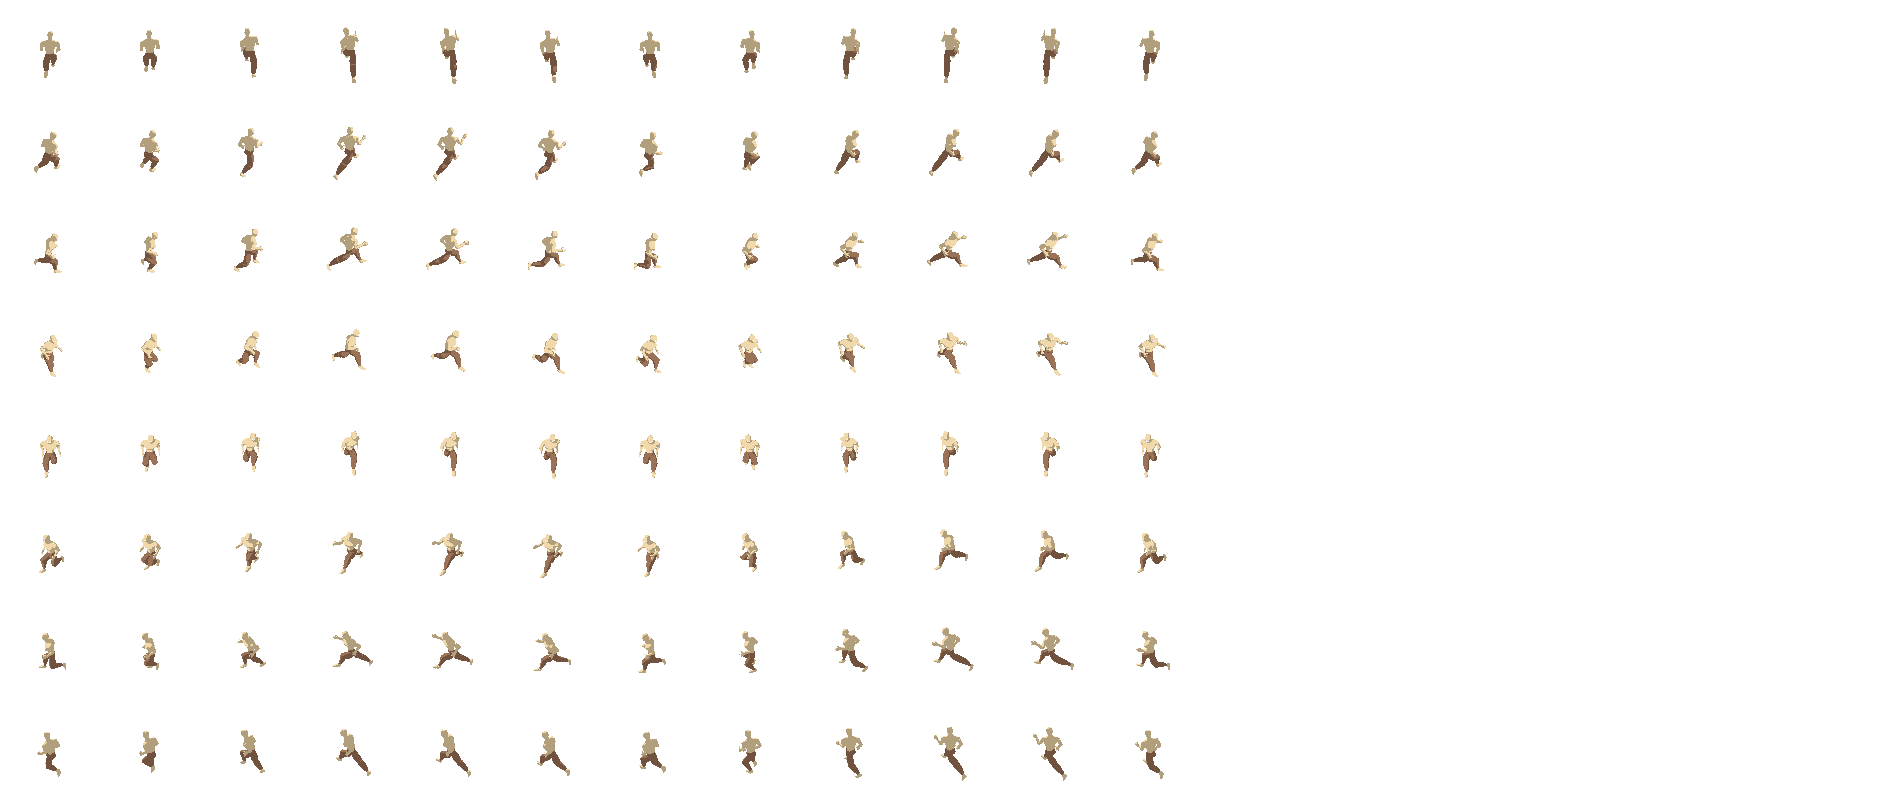
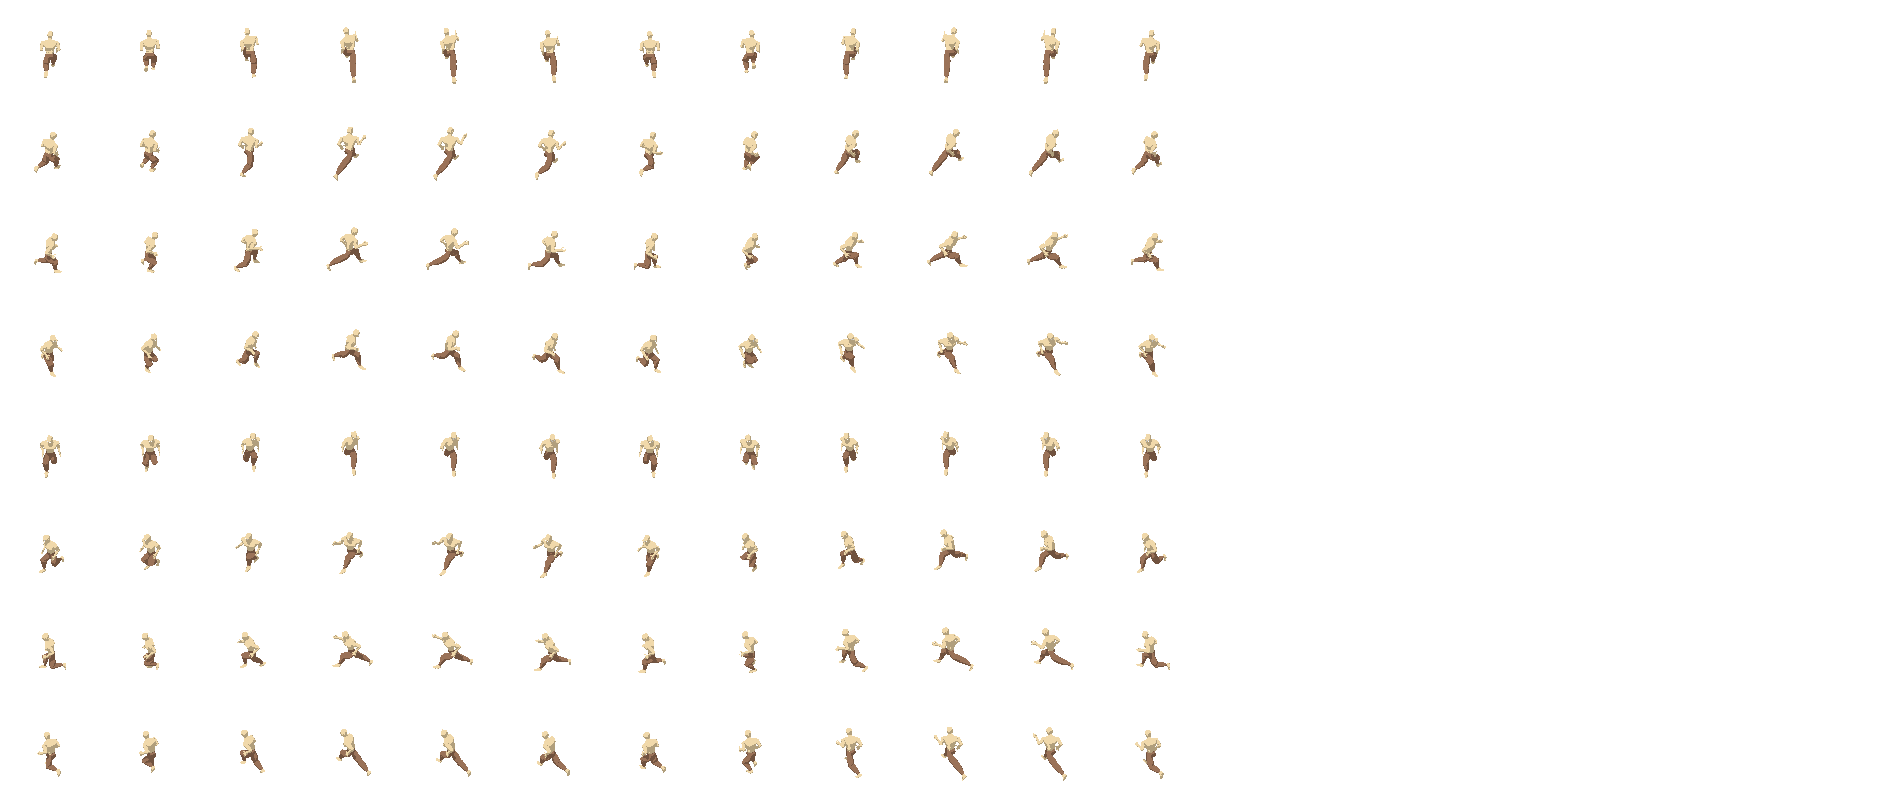
feat: Update dude front kick animation and add movement to the attack
Having the player move when you perform an attack is super important,
not only does the attack feel more impactful but it also helps to
connect with enemies.

diff --git a/src/player/movement.rs b/src/player/movement.rs
@@ -31,25 +31,38 @@ fn move_player(player_input: Res<PlayerInput>, mut q_player: Query<(&Player, &mu
 }
 
 fn move_player_attacking(mut q_players: Query<(&AnimationPlayer2D, &mut Velocity, &Player)>) {
+    // TODO: Refactor this, intuitively I expeted to find these values and stuff in
+    // `dude/attack.rs`, with each attack having some kind of information about the movement, it
+    // would be a little tricky to pull that off as the direction isn't always the same, but still
+    // this isn't _super_ nice, although I don't know how much that matters as we will have
+    // different attacks for each character anyways, but still will need to find a way to at least
+    // have all of those informations in one place.
     for (animator, mut velocity, player) in &mut q_players {
-        if player.state_machine.attack_eq(Attack::Light1) {
-            velocity.linvel = player.current_direction * 50.0;
-        } else if player.state_machine.attack_eq(Attack::Light2) {
-            velocity.linvel = player.current_direction * 250.0;
-        } else if player.state_machine.attack_eq(Attack::Slide) {
-            let Some(duration) = animator.duration() else {
-                continue;
-            };
+        if player.state_machine.state() != DudeState::Attacking {
+            continue;
+        }
 
-            let x = animator.elapsed() / duration;
-            let multiplier = (1.0 - x.powi(2)).max(0.0);
-            velocity.linvel = player.state_machine.attack_direction() * 400.0 * multiplier;
-        } else if player.state_machine.attack_eq(Attack::Dropkick)
-            || player.state_machine.attack_eq(Attack::Kneekick)
-        {
-            velocity.linvel = player
-                .state_machine
-                .jumping_linvel(player.state_machine.attack_direction());
+        match player.state_machine.attack() {
+            Attack::Light1 => velocity.linvel = player.current_direction * 50.0,
+            Attack::Light2 => velocity.linvel = player.current_direction * 150.0,
+            Attack::Light3 => velocity.linvel = player.current_direction * 200.0,
+            Attack::Heavy1 => {}
+            Attack::Heavy2 => {}
+            Attack::Heavy3 => {}
+            Attack::Slide => {
+                let Some(duration) = animator.duration() else {
+                    continue;
+                };
+
+                let x = animator.elapsed() / duration;
+                let multiplier = (1.0 - x.powi(2)).max(0.0);
+                velocity.linvel = player.state_machine.attack_direction() * 400.0 * multiplier;
+            }
+            Attack::Dropkick | Attack::Kneekick => {
+                velocity.linvel = player
+                    .state_machine
+                    .jumping_linvel(player.state_machine.attack_direction());
+            }
         }
     }
 }
